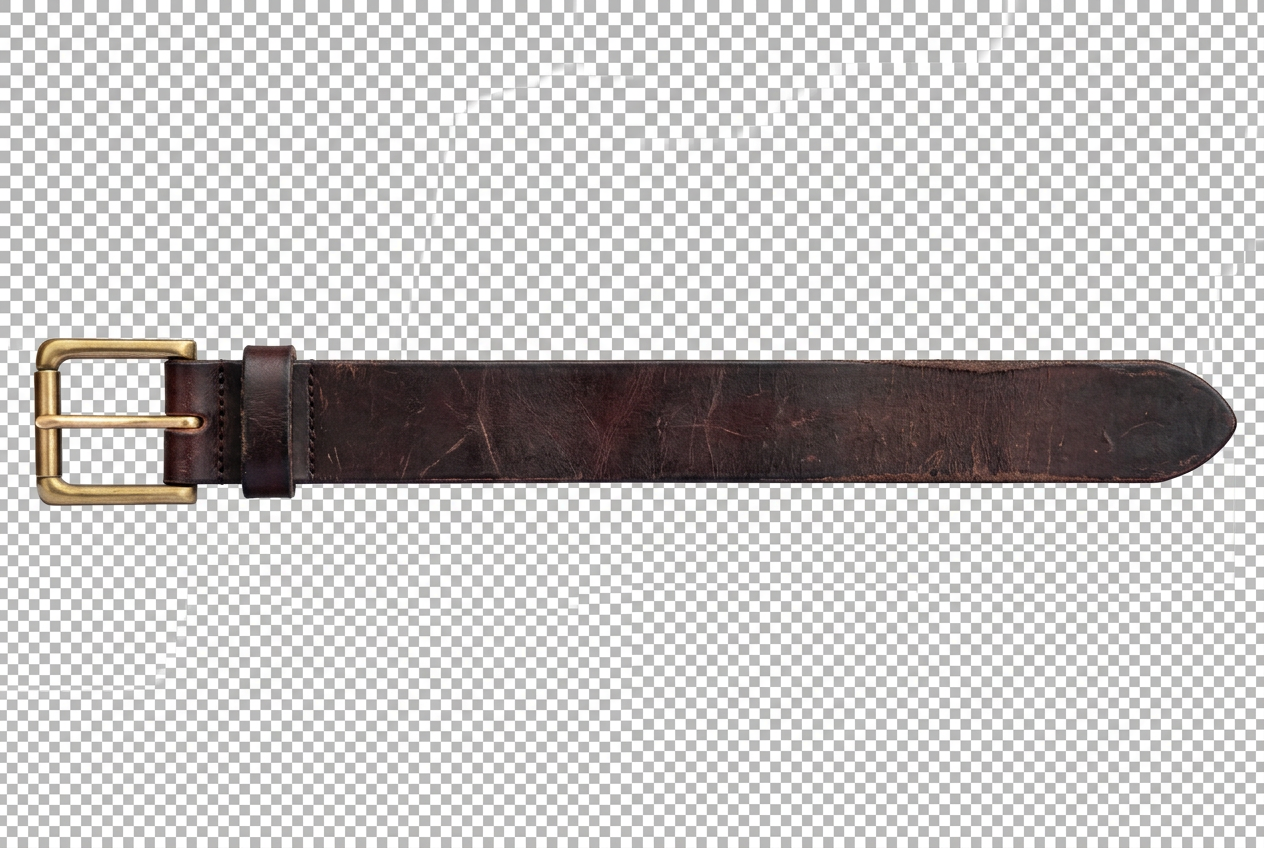
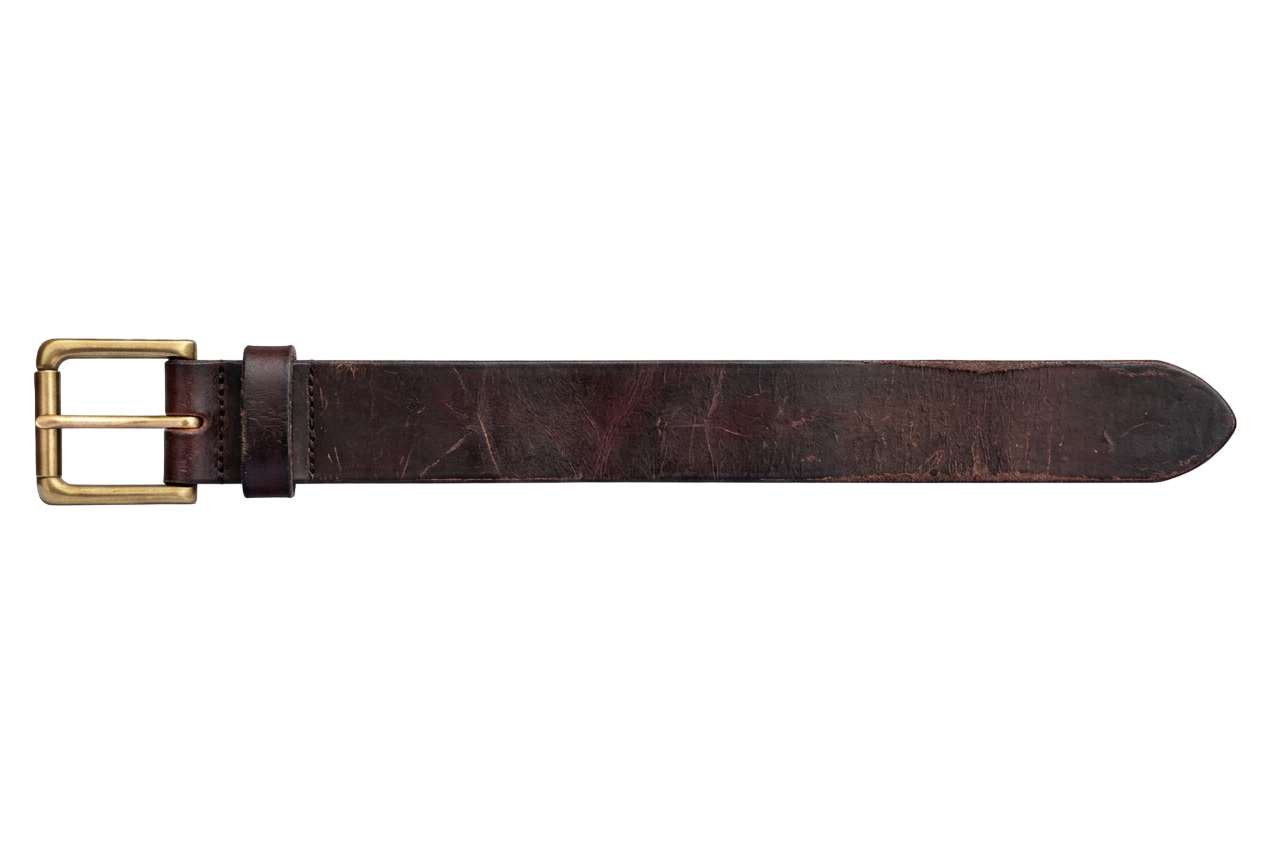
Add files via upload

diff --git a/style.css b/style.css
@@ -47,7 +47,7 @@ body {
 }
 
 /* ------------------------------------------------------------- */
-/* ВЕРХНЯ ПАНЕЛЬ: ВІЗУАЛ ШКІРЯНОГО РЕМЕНЯ З БЛЯШКОЮ             */
+/* ВЕРХНЯ ПАНЕЛЬ: ВІЗУАЛ ШКІРЯНОГО РЕМЕНЯ З БЛЯШКОЮ              */
 /* ------------------------------------------------------------- */
 
 .top-nav {
@@ -56,32 +56,34 @@ body {
     display: flex;
     justify-content: space-between;
     align-items: center;
-    /* Використовуємо ремінь як фон панелі */
+    /* Використовуємо contain, щоб зберегти пропорції ременя без сплющення */
     background: url('belt_hud.png') no-repeat center center;
-    background-size: 100% 100%;
-    padding: 0.6cqh 2.5cqw 0.6cqh 4cqw; /* Відступи для гармонійного розміщення у бляшці */
+    background-size: contain;
+    padding: 0.2cqh 3cqw;
     border: none !important;
     border-radius: 0;
     gap: 1cqw;
-    height: 9cqh;
+    height: 11cqh; /* До достатньої висоти, щоб текст і елементи не вилітали */
     filter: drop-shadow(0 6px 12px rgba(0, 0, 0, 0.85));
+    margin-bottom: 2px;
 }
 
 .user-profile-badge {
     display: flex;
     align-items: center;
-    gap: 0.8cqw;
+    gap: 0.6cqw;
     cursor: pointer;
+    margin-left: 1.2cqw; /* Невеликий відступ під бляшку */
 }
 
 /* Аватарка всередині металевої бляшки */
 .avatar-mini {
-    font-size: 1.4cqw;
-    background: rgba(10, 8, 6, 0.75);
-    padding: 0.3cqw 0.5cqw;
+    font-size: 1.3cqw;
+    background: rgba(10, 8, 6, 0.8);
+    padding: 0.2cqw 0.4cqw;
     border-radius: 4px;
-    border: 1px solid rgba(217, 197, 154, 0.3);
-    box-shadow: inset 0 0 5px rgba(0,0,0,0.8);
+    border: 1px solid rgba(217, 197, 154, 0.4);
+    box-shadow: inset 0 0 5px rgba(0, 0, 0, 0.9);
 }
 
 .user-text {
@@ -94,16 +96,16 @@ body {
     display: flex;
     gap: 0.5cqw;
     align-items: center;
-    font-size: 1cqw;
+    font-size: 0.95cqw;
     color: #e8d7be;
-    text-shadow: 1px 1px 2px #000;
+    text-shadow: 1px 1px 3px #000;
 }
 
 .rank-tag {
-    font-size: 0.75cqw;
+    font-size: 0.7cqw;
     color: #d9c59a;
-    background: rgba(40, 28, 20, 0.85);
-    padding: 1px 5px;
+    background: rgba(30, 20, 15, 0.85);
+    padding: 1px 4px;
     border-radius: 4px;
     border: 1px solid #6b4e39;
     font-weight: bold;
@@ -116,18 +118,18 @@ body {
 }
 
 .exp-label {
-    font-size: 0.75cqw;
+    font-size: 0.7cqw;
     color: #d9c59a;
     display: flex;
     justify-content: space-between;
     gap: 0.5cqw;
-    text-shadow: 1px 1px 2px #000;
+    text-shadow: 1px 1px 3px #000;
 }
 
 .exp-bar-bg {
-    width: 8cqw;
+    width: 7.5cqw;
     height: 4px;
-    background: rgba(0, 0, 0, 0.6);
+    background: rgba(0, 0, 0, 0.7);
     border: 1px solid rgba(255, 255, 255, 0.15);
     border-radius: 2px;
     overflow: hidden;
@@ -142,19 +144,19 @@ body {
 /* Центральна навігація поверх шкіри */
 .center-nav {
     display: flex;
-    gap: 0.5cqw;
+    gap: 0.4cqw;
     background: rgba(15, 10, 8, 0.5);
-    padding: 0.3cqh 0.5cqw;
+    padding: 0.2cqh 0.4cqw;
     border-radius: 6px;
     border: 1px solid rgba(140, 104, 77, 0.4);
 }
 
 .nav-icon-btn {
-    background: rgba(30, 20, 15, 0.6);
+    background: rgba(30, 20, 15, 0.7);
     border: 1px solid rgba(217, 197, 154, 0.25);
-    font-size: 1.4cqw;
-    width: 2.5cqw;
-    height: 2.5cqw;
+    font-size: 1.2cqw;
+    width: 2.2cqw;
+    height: 2.2cqw;
     border-radius: 6px;
     cursor: pointer;
     display: flex;
@@ -175,11 +177,11 @@ body {
 }
 
 .sys-btn {
-    background: rgba(15, 10, 8, 0.4);
+    background: rgba(15, 10, 8, 0.5);
     border: 1px solid rgba(217, 197, 154, 0.2);
-    font-size: 1.2cqw;
-    width: 2.2cqw;
-    height: 2.2cqw;
+    font-size: 1.1cqw;
+    width: 2cqw;
+    height: 2cqw;
     cursor: pointer;
     border-radius: 50%;
     color: #d9c59a;

diff --git a/index.html b/index.html
@@ -5,7 +5,7 @@
     <meta name="viewport" content="width=device-width, initial-scale=1.0, user-scalable=no">
     <title>Палата 404</title>
     <script src="https://telegram.org/js/telegram-web-app.js"></script>
-    <link rel="stylesheet" href="style.css?v=30000">
+    <link rel="stylesheet" href="style.css?v=31000">
 </head>
 <body>
 
